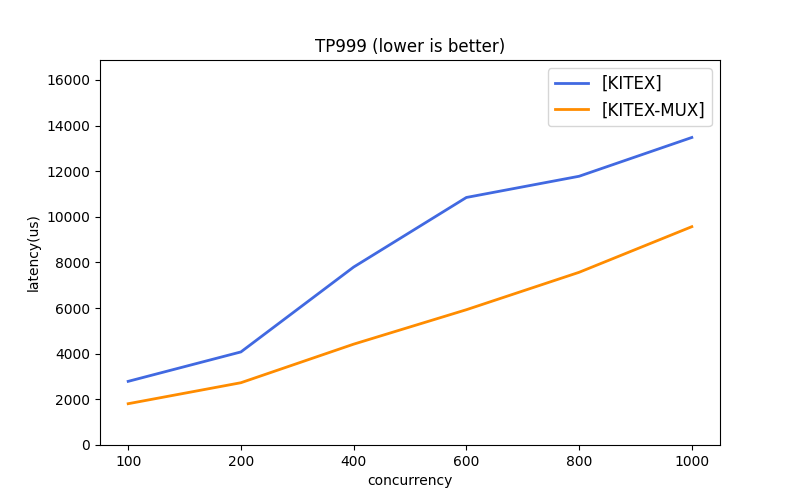
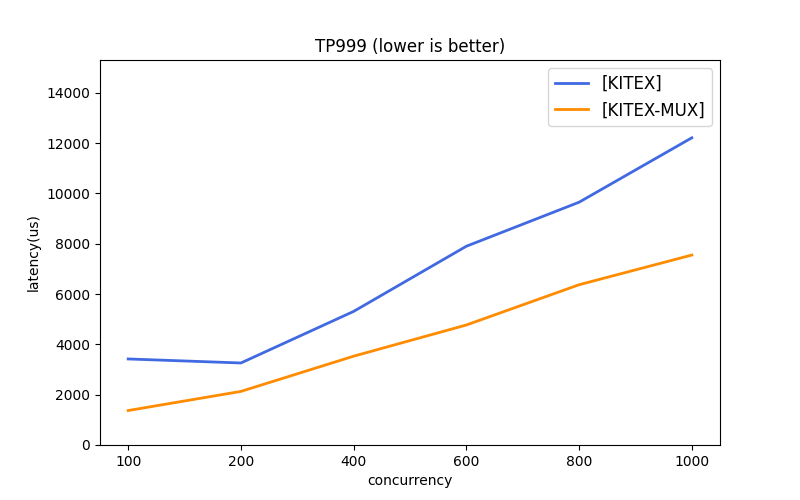
doc: change results

diff --git a/scripts/reports/render_images.py b/scripts/reports/render_images.py
@@ -1,7 +1,7 @@
 import matplotlib.pyplot as plt
 import sys
 
-kind = "pb"
+kind = "thrift"
 
 
 # 0-name, 1-concurrency, 2-size, 3-qps, 6-p99, 7-p999
